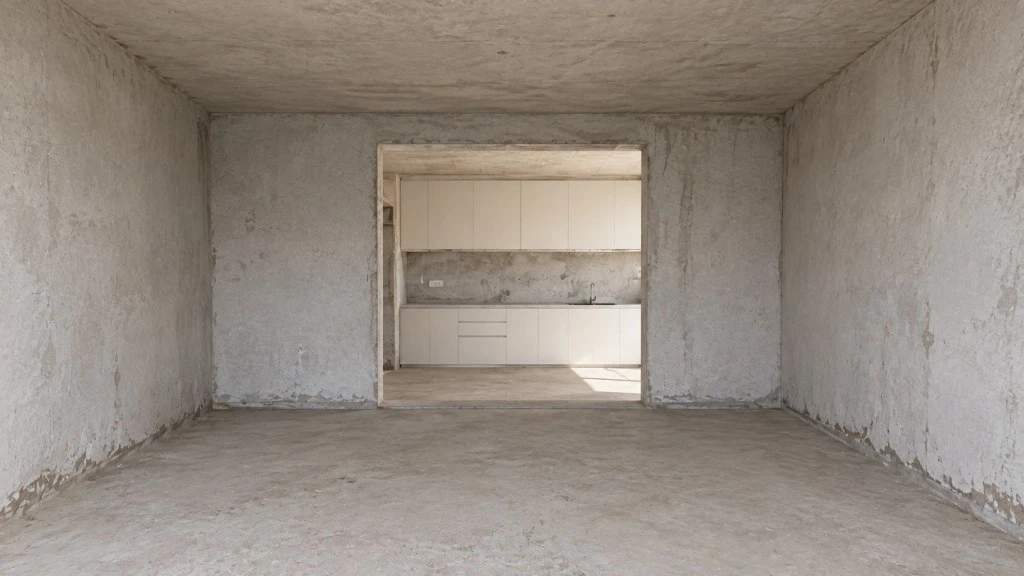
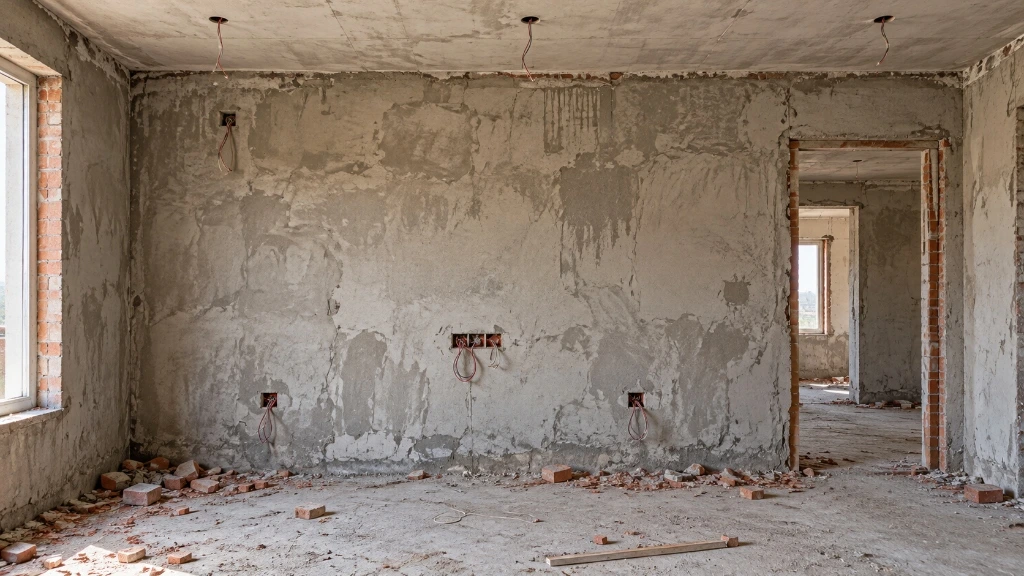
fix(projects): update before image for The Panelled Muse (Gandipet 2BHK)

diff --git a/client/src/pages/ProjectDetails.jsx b/client/src/pages/ProjectDetails.jsx
@@ -687,7 +687,7 @@ const ProjectDetails = () => {
       cleanSlug === 'gandipet' || 
       resolvedSlug === 'gandipet-modern-retro-2bhk'
     ) {
-      item.beforeImage = 'https://res.cloudinary.com/r3jwfy0y/image/upload/f_auto/q_auto/48723afe-969c-4d67-8024-a74296aad3b2.png';
+      item.beforeImage = 'https://res.cloudinary.com/r3jwfy0y/image/upload/v1791132839/espacio_gallery/mysq2iymi1lwd2lgk5v0.jpg';
       item.afterImage = 'https://res.cloudinary.com/r3jwfy0y/image/upload/f_auto/q_auto/5d678d57-3ff6-4ce4-87fb-29b692a0cf84.png';
       item.beforeImages = [item.beforeImage];
       item.afterImages = [item.afterImage];
@@ -1057,7 +1057,7 @@ const ProjectDetails = () => {
           afterImg = 'https://res.cloudinary.com/r3jwfy0y/image/upload/f_auto/q_auto/6f7bce1d-d140-45ee-a08b-ecb09433bdb7.png';
         }
         if (p.slug === 'gandipet-modern-retro-2bhk' || p._id === 'proj_5_gandipet_kiran' || p.title?.includes('Panelled') || p.title?.includes('Kiran') || cleanSlug === 'gandipet-modern-retro-2bhk' || cleanSlug === 'gandipet-modern-retro' || cleanSlug === 'gandipet' || cleanSlug === 'the-panelled-muse' || cleanSlug === 'kiran' || resolvedSlug === 'gandipet-modern-retro-2bhk') {
-          beforeImg = 'https://res.cloudinary.com/r3jwfy0y/image/upload/f_auto/q_auto/48723afe-969c-4d67-8024-a74296aad3b2.png';
+          beforeImg = 'https://res.cloudinary.com/r3jwfy0y/image/upload/v1791132839/espacio_gallery/mysq2iymi1lwd2lgk5v0.jpg';
           afterImg = 'https://res.cloudinary.com/r3jwfy0y/image/upload/f_auto/q_auto/5d678d57-3ff6-4ce4-87fb-29b692a0cf84.png';
         }
         if (p.slug === 'kokapet-urban-2bhk' || p._id === 'proj_4_kokapet_rahul' || p.title?.includes('Ivory') || p.title?.includes('Rahul') || cleanSlug === 'kokapet-urban-2bhk' || cleanSlug === 'kokapet-urban' || cleanSlug === 'the-ivory-retreat' || cleanSlug === 'rahul' || resolvedSlug === 'kokapet-urban-2bhk') {

diff --git a/server/scripts/update_kiran_before.js b/server/scripts/update_kiran_before.js
@@ -1,0 +1,39 @@
+import { query } from '../config/supabase.js';
+
+async function main() {
+  const newBeforeUrl = 'https://res.cloudinary.com/r3jwfy0y/image/upload/v1791132839/espacio_gallery/mysq2iymi1lwd2lgk5v0.jpg';
+  const checkRes = await query('SELECT id, slug, before_after, data FROM projects WHERE id = $1 OR slug = $2', ['proj_5_gandipet_kiran', 'gandipet-modern-retro-2bhk']);
+  console.log('Found Supabase project rows:', checkRes.rows.length);
+
+  for (const row of checkRes.rows) {
+    let currentData = {};
+    if (row.data) {
+      currentData = typeof row.data === 'string' ? JSON.parse(row.data) : row.data;
+    }
+    
+    currentData.beforeImage = newBeforeUrl;
+    currentData.beforeImages = [newBeforeUrl];
+    if (Array.isArray(currentData.before_after) && currentData.before_after.length > 0) {
+      currentData.before_after[0].before = newBeforeUrl;
+    } else {
+      currentData.before_after = [{ before: newBeforeUrl, after: currentData.afterImage || 'https://res.cloudinary.com/r3jwfy0y/image/upload/f_auto/q_auto/5d678d57-3ff6-4ce4-87fb-29b692a0cf84.png' }];
+    }
+
+    const beforeAfter = currentData.before_after;
+
+    await query(`
+      UPDATE projects SET
+        before_after = $1::jsonb,
+        data = $2::jsonb,
+        updated_at = NOW()
+      WHERE id = $3
+    `, [
+      JSON.stringify(beforeAfter),
+      JSON.stringify(currentData),
+      row.id
+    ]);
+    console.log('✓ Updated Supabase project:', row.id);
+  }
+}
+
+main().catch(console.error).finally(() => process.exit(0));

diff --git a/server/scripts/update_rooms_kiran.js b/server/scripts/update_rooms_kiran.js
@@ -1,0 +1,24 @@
+import fs from 'fs';
+import path from 'path';
+
+const filePath = path.resolve('client', 'src', 'utils', 'projectRooms.js');
+let code = fs.readFileSync(filePath, 'utf8');
+
+const needle = `'802e37b7-a758-4a54-bf4c-ac4666122714': 'Louvered Entrance Foyer & Balcony Deck'`;
+const addition = `'802e37b7-a758-4a54-bf4c-ac4666122714': 'Louvered Entrance Foyer & Balcony Deck',
+    'https://res.cloudinary.com/r3jwfy0y/image/upload/v1791132839/espacio_gallery/mysq2iymi1lwd2lgk5v0.jpg': 'Raw Site Shell & Structural Framing',
+    'mysq2iymi1lwd2lgk5v0': 'Raw Site Shell & Structural Framing',
+    'mysq2iymi1lwd2lgk5v0.jpg': 'Raw Site Shell & Structural Framing',
+    'kiran_before.webp': 'Raw Site Shell & Structural Framing',
+    'kiran_before': 'Raw Site Shell & Structural Framing',
+    '48723afe-969c-4d67-8024-a74296aad3b2.png': 'Raw Site Shell & Structural Framing',
+    '48723afe-969c-4d67-8024-a74296aad3b2': 'Raw Site Shell & Structural Framing'`;
+
+if (code.includes(needle)) {
+  code = code.replace(needle, addition);
+  fs.writeFileSync(filePath, code, 'utf8');
+  console.log('Successfully updated projectRooms.js');
+} else {
+  console.error('Needle not found!');
+  process.exit(1);
+}

diff --git a/client/src/utils/projectRooms.js b/client/src/utils/projectRooms.js
@@ -419,7 +419,14 @@ const EXACT_PROJECT_ROOMS = {
     '69fac825-2a00-4d3d-9f64-19d8336aa9ec.png': 'Retro Guest Bedroom & Study Desk',
     '69fac825-2a00-4d3d-9f64-19d8336aa9ec': 'Retro Guest Bedroom & Study Desk',
     '802e37b7-a758-4a54-bf4c-ac4666122714.png': 'Louvered Entrance Foyer & Balcony Deck',
-    '802e37b7-a758-4a54-bf4c-ac4666122714': 'Louvered Entrance Foyer & Balcony Deck'
+    '802e37b7-a758-4a54-bf4c-ac4666122714': 'Louvered Entrance Foyer & Balcony Deck',
+    'https://res.cloudinary.com/r3jwfy0y/image/upload/v1791132839/espacio_gallery/mysq2iymi1lwd2lgk5v0.jpg': 'Raw Site Shell & Structural Framing',
+    'mysq2iymi1lwd2lgk5v0': 'Raw Site Shell & Structural Framing',
+    'mysq2iymi1lwd2lgk5v0.jpg': 'Raw Site Shell & Structural Framing',
+    'kiran_before.webp': 'Raw Site Shell & Structural Framing',
+    'kiran_before': 'Raw Site Shell & Structural Framing',
+    '48723afe-969c-4d67-8024-a74296aad3b2.png': 'Raw Site Shell & Structural Framing',
+    '48723afe-969c-4d67-8024-a74296aad3b2': 'Raw Site Shell & Structural Framing'
   },
 
   // 6. The Dusk Lounge (Kondapur Minimalist 2BHK)

diff --git a/client/src/utils/cmsStore.js b/client/src/utils/cmsStore.js
@@ -348,10 +348,10 @@ export const DEFAULT_PROJECTS = [
       "https://res.cloudinary.com/r3jwfy0y/image/upload/f_auto/q_auto/69fac825-2a00-4d3d-9f64-19d8336aa9ec.png",
       "https://res.cloudinary.com/r3jwfy0y/image/upload/f_auto/q_auto/802e37b7-a758-4a54-bf4c-ac4666122714.png"
     ],
-    "beforeImage": "https://res.cloudinary.com/r3jwfy0y/image/upload/f_auto/q_auto/48723afe-969c-4d67-8024-a74296aad3b2.png",
+    "beforeImage": "https://res.cloudinary.com/r3jwfy0y/image/upload/v1791132839/espacio_gallery/mysq2iymi1lwd2lgk5v0.jpg",
     "afterImage": "https://res.cloudinary.com/r3jwfy0y/image/upload/f_auto/q_auto/5d678d57-3ff6-4ce4-87fb-29b692a0cf84.png",
     "beforeImages": [
-      "https://res.cloudinary.com/r3jwfy0y/image/upload/f_auto/q_auto/48723afe-969c-4d67-8024-a74296aad3b2.png"
+      "https://res.cloudinary.com/r3jwfy0y/image/upload/v1791132839/espacio_gallery/mysq2iymi1lwd2lgk5v0.jpg"
     ],
     "afterImages": [
       "https://res.cloudinary.com/r3jwfy0y/image/upload/f_auto/q_auto/5d678d57-3ff6-4ce4-87fb-29b692a0cf84.png"
